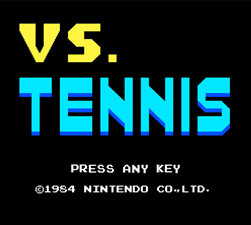
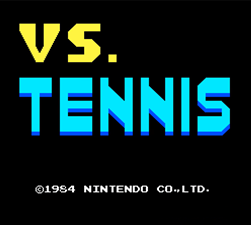
타이틀 깜빡임 추가

Changed region(s): [[0.2789, 0.7156, 0.5857, 0.7778], [0.6135, 0.7156, 0.7251, 0.7778]]

diff --git a/title_mode.py b/title_mode.py
@@ -1,13 +1,22 @@
+from pico2d import *
+
 import game_framework
 import select_mode
 import game_world
-from pico2d import *
+import time
 
 
 def init():
     global image
+    global instruction
+    global title_mode_start_time
+    global instruction_display
 
     image = load_image('resource\\title.png')
+    instruction = load_image('resource\\title_instruction.png')
+
+    title_mode_start_time = time.time()
+    instruction_display = True
 
 
 def finish():
@@ -15,12 +24,18 @@ def finish():
 
 
 def update():
-    game_world.update()
+    global title_mode_start_time
+    global instruction_display
 
+    game_world.update()
+    if time.time() - title_mode_start_time > 1.0:
+        instruction_display = True if instruction_display == False else False
+        title_mode_start_time = time.time()
 
 def draw():
     clear_canvas()
     image.draw(250 * 2, 225 * 2, 250 * 4, 225 * 4)
+    if instruction_display: instruction.draw(250 * 2, 225 * 2, 250 * 4, 225 * 4)
     update_canvas()
 
 

diff --git a/main.py b/main.py
@@ -1,7 +1,7 @@
 from pico2d import open_canvas, close_canvas
 import select_mode
-import play_mode as start_mode
-import title_mode
+import play_mode
+import title_mode as start_mode
 import game_framework
 
 open_canvas(250 * 4, 225 * 4)
